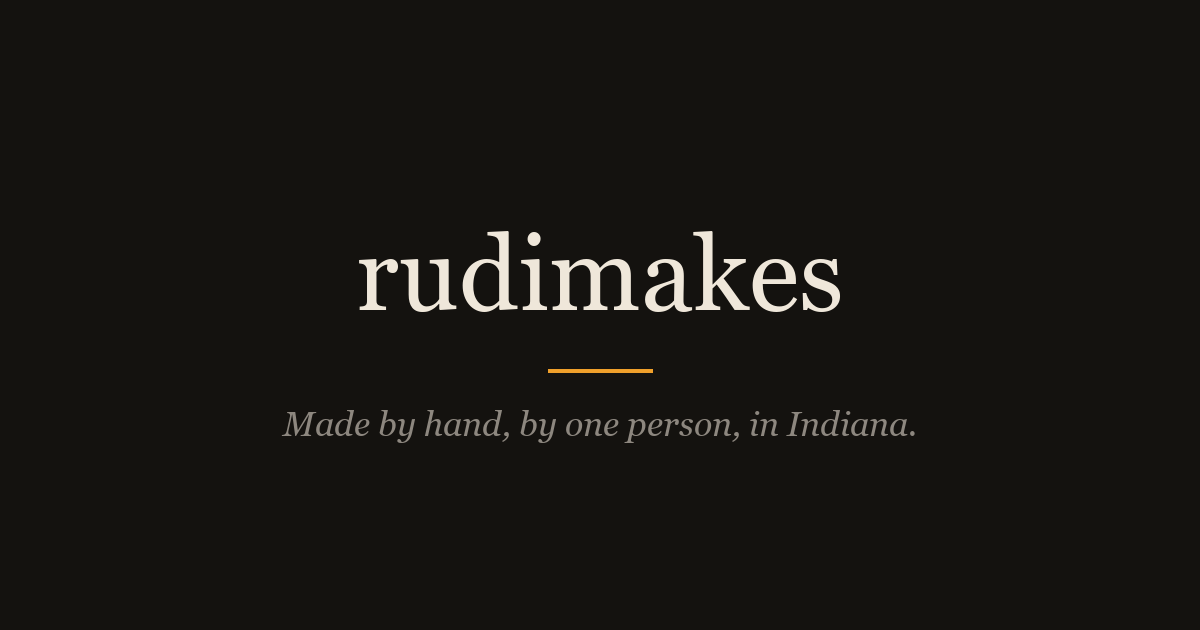
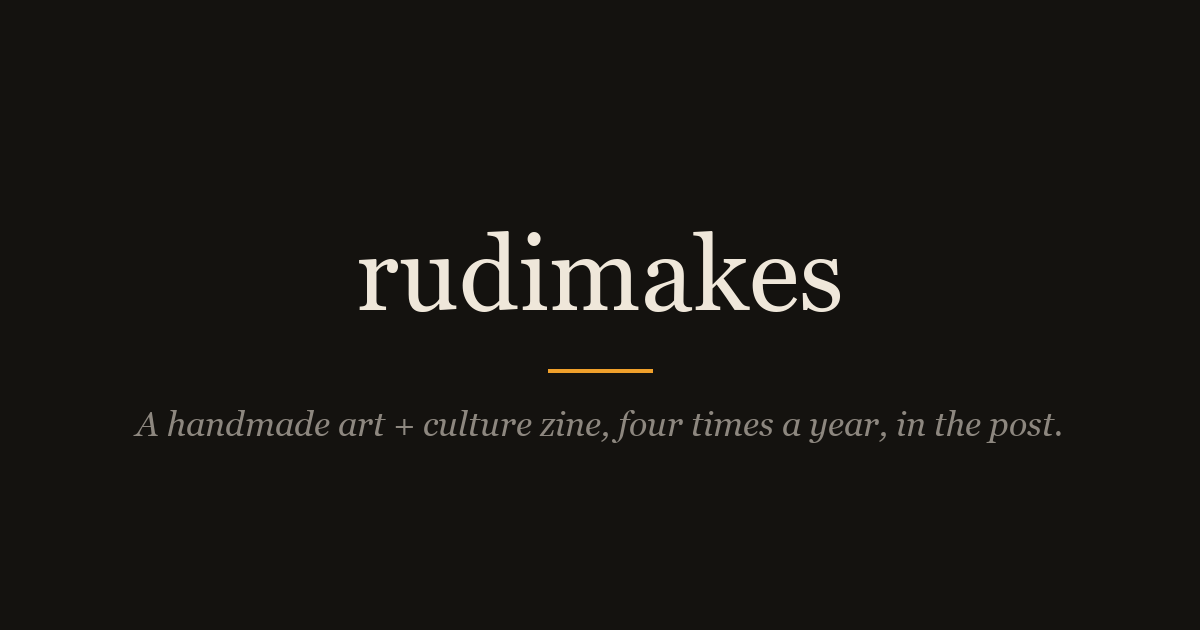
Home: a handmade art + culture zine
Rudi's line, set exactly: the plus sign stays. On the card it auto-fits, since
it is half again as long as what it replaced, and lands at 34pt and 927px
inside the 1040 allowed.

It forced the descriptions to be rebuilt rather than just edited. They used to
open with the old tagline and then say "Glowworm, a handmade art and culture
zine", which against the new line would have said the same thing twice in one
sentence. The meta description names Glowworm first, because that is what
someone searching for it would type; og:description does not, because the card
above it already carries the name.

Changed region(s): [[0.1233, 0.6635, 0.8942, 0.6937]]

diff --git a/index.html b/index.html
@@ -4,17 +4,17 @@
 <meta charset="utf-8">
 <meta name="viewport" content="width=device-width, initial-scale=1">
 <title>rudimakes</title>
-<meta name="description" content="Made by hand, by one person, in Indiana. Glowworm, a handmade art and culture zine. Hyperworld, an animated show. TBX, a box behind the television.">
+<meta name="description" content="Glowworm: a handmade art + culture zine, four times a year, in the post. Also Hyperworld, an animated show, and TBX, a box behind the television.">
 <meta property="og:title" content="rudimakes">
 <!-- The card says the tagline, so this says what is actually here rather than
      repeating it. New filename, not a replacement of og-filament.png: previews
      are cached against the image URL, and the old one is still correct for any
      link already shared. -->
-<meta property="og:description" content="Glowworm, a handmade art and culture zine. Hyperworld, an animated show. TBX, a box behind the television.">
+<meta property="og:description" content="A handmade art + culture zine, four times a year, in the post. Also Hyperworld, an animated show, and TBX, a box behind the television.">
 <meta property="og:image" content="https://rudimakes.com/images/og-rudimakes.png">
 <meta property="og:image:width" content="1200">
 <meta property="og:image:height" content="630">
-<meta property="og:image:alt" content="rudimakes. Made by hand, by one person, in Indiana.">
+<meta property="og:image:alt" content="rudimakes. A handmade art + culture zine, four times a year, in the post.">
 <meta property="og:url" content="https://rudimakes.com/">
 <meta property="og:type" content="website">
 <meta name="twitter:card" content="summary_large_image">
